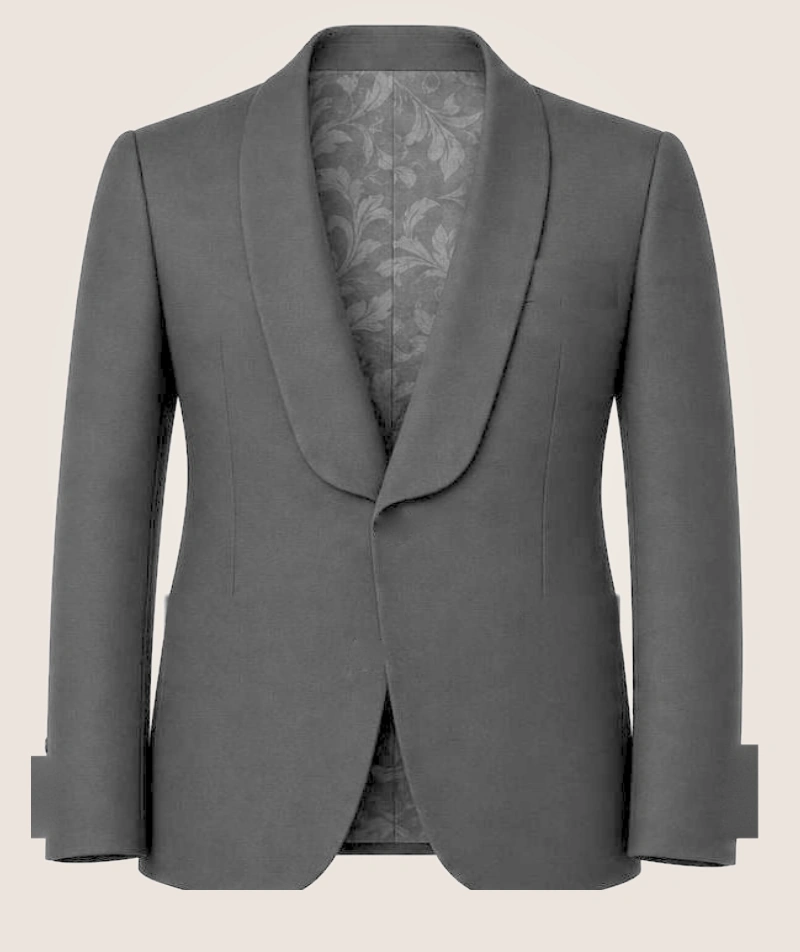
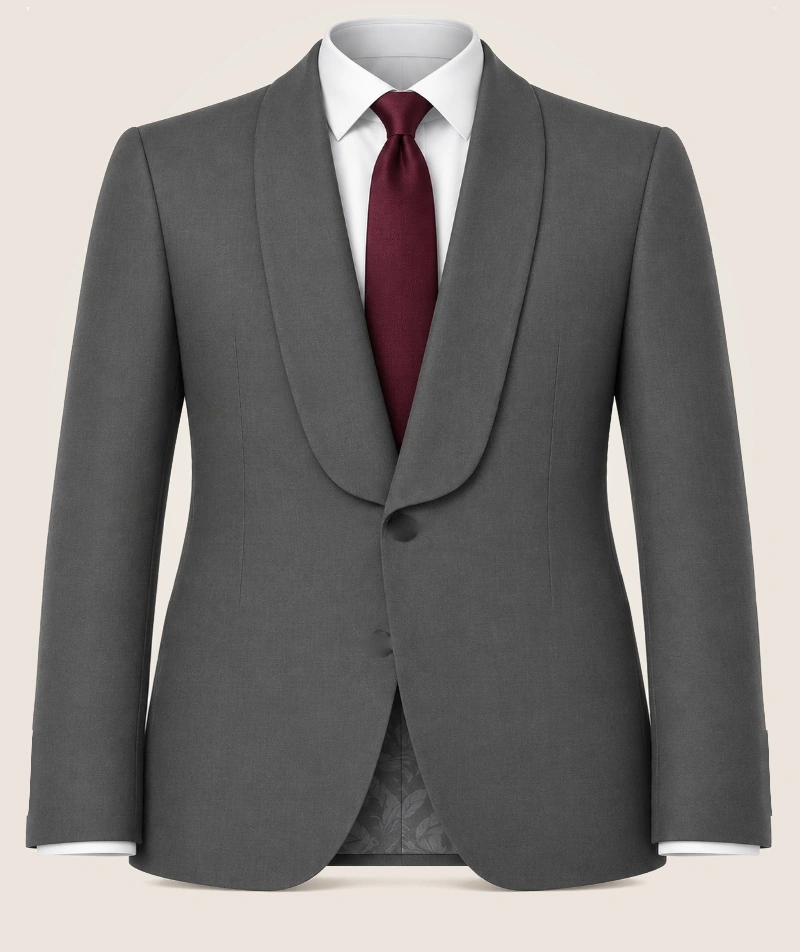
Arc picture: rebuilt from Daniel's new Arc reference (shirt, tie, cuffs, lining)
Claude-Session: https://claude.ai/code/session_01Y2WUq1weRP5XrU8gepbqNJ

diff --git a/jacket-studio.js b/jacket-studio.js
@@ -55,8 +55,8 @@
   };
   // Double breasted fronts use their own photo (peak lapels, the front
   // crossing over; scripts/make_jacket_photo_db.py).
-  const PHOTO_ARC = "./assets/jacket-photo-front-arc.webp?v=2";
-  const SHADE_ARC = "./assets/jacket-photo-shade-front-arc-photo.webp?v=3";
+  const PHOTO_ARC = "./assets/jacket-photo-front-arc.webp?v=3";
+  const SHADE_ARC = "./assets/jacket-photo-shade-front-arc-photo.webp?v=4";
   const PHOTO_DB = "./assets/jacket-photo-front-db.webp?v=1";
   const SHADE_DB = "./assets/jacket-photo-shade-front-db.webp?v=1";
   const SHADE_DB_LAPEL = {
@@ -670,7 +670,7 @@
     const arcFront = !db && v.collar === "Arc Lapel";
     if (arcFront) {
       g.save();
-      const clip = new Path2D("M0,0 H" + VBW + " V" + VBH + " H0 Z M548,120 L550,182 L544,235 L532,287 L511,340 L440,340 L440,120 Z");
+      const clip = new Path2D("M0,0 H" + VBW + " V" + VBH + " H0 Z M546,120 L546,160 L541,200 L537,235 L531,265 L525,295 L518,325 L512,355 L505,385 L440,385 L440,120 Z");
       g.clip(clip, "evenodd");
     }
     if (ck === "patch") patch(g, layer, CX, 268, CW, 92, -2, "roundpatch", 1);

diff --git a/index.html b/index.html
@@ -1360,7 +1360,7 @@
 <!-- Your Jacket peek: a small read-only picture of the jacket beside the
      Jacket questions; tap to see it big (Daniel, 2026-11-19). The old
      clickable "Interactive Jacket" mode is no longer offered. -->
-<script src="./jacket-studio.js?v=20261120arcfix2"></script>
+<script src="./jacket-studio.js?v=20261120arcv2"></script>
 
 </body>
 </html>

diff --git a/scripts/make_jacket_photo_arc.py b/scripts/make_jacket_photo_arc.py
@@ -1,18 +1,21 @@
 """Arc lapel front for the Your Jacket picture (jacket-studio.js).
 
-Daniel (2026-11-19): the Arc must look exactly like the approved Arc photo the
-suit picture generator uses (assets/jacket-lapelref-arc-approved.jpg, a grey
-jacket). Drawing the Arc edge as a line on the notch photo never looked right,
-so the single breasted Arc front is built from that photo itself:
+Daniel (2026-11-20) sent a new Arc reference (assets/jacket-lapelref-arc-v2.jpg:
+grey two button Arc jacket with white shirt, burgundy tie, shirt cuffs and the
+damask lining showing below the buttons). The single breasted Arc front is
+built from that photo itself (drawing the Arc edge as lines never looked
+right):
 
-- the grey jacket (left 600 px of the reference) is warped onto the main
-  photo's layout (800x952 crop: shoulders, collar, top button and sleeve ends
-  line up with jacket-photo-front.webp, so the drawn pockets, buttons and cuffs
-  land in the same places),
-- its own buttons and sleeve buttons are painted out (the page draws them),
+- the photo is warped onto the main photo's layout (800x952: one linear map
+  in y through shoulders / top button / sleeve ends, and per row an x scale
+  that matches the silhouette width, so the drawn pockets, buttons and cuffs
+  land where they do on jacket-photo-front.webp),
+- its own buttons, buttonhole and sleeve buttons are painted out (the page
+  draws them),
 - its luminance becomes the cloth shading (same encoding as
   jacket-photo-shade-front*.webp), and
-- the lining showing in the opening and the backdrop stay in the base photo.
+- the shirt, tie, shirt cuffs and lining stay in the base photo; the backdrop
+  becomes the page glow.
 
 Writes assets/jacket-photo-front-arc.webp and
 assets/jacket-photo-shade-front-arc-photo.webp.
@@ -23,10 +26,11 @@ import os
 
 HERE = os.path.dirname(os.path.abspath(__file__))
 ROOT = os.path.dirname(HERE)
-src = Image.open(os.path.join(ROOT, 'assets', 'jacket-lapelref-arc-approved.jpg')).convert('RGB').crop((0, 0, 600, 800))
+src = Image.open(os.path.join(ROOT, 'assets', 'jacket-lapelref-arc-v2.jpg')).convert('RGB')
 g = np.asarray(src).astype(np.float32)
 GH, GW = g.shape[:2]
 GL = g.mean(2)
+BACKDROP = np.array([247, 239, 231], np.float32)
 
 
 def mask(polys=(), circles=(), rects=(), W=GW, H=GH, ss=4):
@@ -39,10 +43,14 @@ def mask(polys=(), circles=(), rects=(), W=GW, H=GH, ss=4):
 
 
 # ---- paint out the photo's buttons, buttonhole and sleeve buttons ----------
-holes = mask(circles=[(295, 477, 15), (275, 590, 15)],
-             rects=[(306, 469, 327, 483), (563, 670, 590, 752), (0, 680, 24, 752)]) > 0.01
-# Keep the white backdrop out of the fill so the sleeve edges stay cloth.
-cloth_known = (GL < 200) & ~holes
+# Sleeve buttons stick out past the sleeve edge (x 50 left, 1030 right): the
+# part outside becomes backdrop, the part on the sleeve becomes cloth.
+g[1168:1306, 30:50] = BACKDROP
+g[1168:1306, 1031:1050] = BACKDROP
+GL = g.mean(2)
+holes = mask(circles=[(544, 841, 21), (510, 1030, 21)],
+             rects=[(558, 831, 593, 849), (49, 1168, 56, 1306), (1023, 1168, 1031, 1306)]) > 0.01
+cloth_known = (GL < 170) & ~holes
 v = g.copy()
 v[holes] = g[cloth_known].mean(0)
 w = (cloth_known | holes).astype(np.float32)
@@ -54,30 +62,49 @@ for _ in range(1500):
     nv = s / np.maximum(sw, 1e-6)[..., None]
     v[holes] = nv[holes]
 g2 = np.where(holes[..., None], v, g)
-# a touch of the cloth's grain back on the filled spots
 rng = np.random.default_rng(3)
 g2[holes] += rng.normal(0, 2.0, (holes.sum(), 1))
 GL2 = g2.mean(2)
+R, G, B = g2[..., 0], g2[..., 1], g2[..., 2]
 
-# ---- masks: backdrop, lining in the opening, cloth ----------------------
-# The right edge sits on the damask, not on the plain grey facing strip beside
-# it, so the right lapel's cloth covers that strip (Daniel 2026-11-19).
-OPEN_TOP = [(226, 52), (359, 52), (361, 120), (355, 200), (339, 258), (317, 318), (299, 368), (293, 398),
-            (282, 370), (263, 302), (246, 232), (233, 150)]
-OPEN_BOT = [(295, 614), (306, 650), (318, 700), (330, 760), (250, 760), (262, 700), (280, 650)]
-opening = mask(polys=[OPEN_TOP, OPEN_BOT])
-bg = np.clip((GL2 - 222) / 14, 0, 1)
-bg = np.asarray(Image.fromarray((bg * 255).astype(np.uint8)).filter(ImageFilter.GaussianBlur(0.7))).astype(np.float32) / 255
-cloth = np.clip((1 - bg) * (1 - opening), 0, 1)
-jacket = np.clip(1 - bg, 0, 1)  # cloth + lining
+# ---- masks: backdrop (warm cream), shirt (neutral white), tie (red), lining --
+bd = np.clip((R - B - 6) / 6, 0, 1) * np.clip((GL2 - 190) / 20, 0, 1)
+white = np.clip((GL2 - 145) / 35, 0, 1)
+tie = np.clip((R - (G + B) / 2 - 12) / 12, 0, 1)
+# grow the tie a pixel so its dark rim doesn't turn into a cloth halo
+tie = np.asarray(Image.fromarray((tie * 255).astype(np.uint8)).filter(ImageFilter.MaxFilter(3))).astype(np.float32) / 255
+LINING = [(539, 1086), (546, 1120), (561, 1200), (586, 1280), (612, 1350), (626, 1394),
+          (434, 1394), (462, 1350), (482, 1320), (501, 1270), (516, 1200), (531, 1120)]
+lining = mask(polys=[LINING])
+cloth = np.clip((1 - bd) * (1 - white) * (1 - tie) * (1 - lining), 0, 1)
+cloth = np.asarray(Image.fromarray((cloth * 255).astype(np.uint8)).filter(ImageFilter.GaussianBlur(0.6))).astype(np.float32) / 255
+jacket = np.clip(1 - bd, 0, 1)  # cloth + shirt + tie + lining
 
 # ---- warp onto the main photo's layout (800x952) -------------------------
 W, H = 800, 952
-# x: shoulders (85 -> 135, 515 -> 665); y: collar 25 -> 40, shoulders 100 -> 130,
-# top button 477 -> 525, sleeve ends 770 -> 858, hem 795 -> 885.
 yy, xx = np.mgrid[0:H, 0:W].astype(np.float32)
-gx = 85 + (xx - 135) * 430.0 / 530.0
-gy = np.interp(yy, [0, 40, 130, 525, 858, 885, 952], [0 - 40 * 25 / 40 + 25, 25, 100, 477, 770, 795, 795 + 67 * 0.92])
+# y: main shoulders 140 / top button 525 / sleeve ends 852 <-> ref 215 / 838 / 1365.
+gy = 215 + (yy - 140) * 1.616
+
+
+def widths(Lum, thr, rows):
+    out = []
+    for y in rows:
+        xs = np.where(Lum[int(y)] < thr)[0]
+        out.append(xs.max() - xs.min() if len(xs) else 0)
+    return np.array(out, np.float32)
+
+
+main = np.asarray(Image.open(os.path.join(ROOT, 'assets', 'jacket-photo-front.webp')).convert('L')).astype(np.float32)
+rows = np.arange(140, 841, 4, dtype=np.float32)
+wm = widths(main, 190, rows)
+wr = widths(GL, 200, np.clip(215 + (rows - 140) * 1.616, 0, GH - 1))
+scale = wr / np.maximum(wm, 1)
+scale = np.convolve(np.pad(scale, 6, mode='edge'), np.ones(13) / 13, mode='valid')
+sy = np.interp(yy[:, 0], rows, scale)[:, None]  # clamps above / below
+CM, CR = 398.5, 538.5
+gx = CR + (xx - CM) * sy
+print('x scale shoulders %.3f sleeves %.3f' % (scale[0], scale[-1]))
 
 
 def sample(arr):
@@ -101,18 +128,16 @@ Lu = Image.fromarray(np.clip(Lw, 0, 255).astype(np.uint8))
 Ls = np.asarray(Lu.filter(ImageFilter.MedianFilter(3)).filter(ImageFilter.GaussianBlur(0.6))).astype(np.float32)
 Lref = float(np.median(Ls[cl > 0.9]))
 r = (np.maximum(Ls, 1) / Lref) ** GAMMA
-# The photo's lapel edge is a thin near-black line; on the customer's cloth it
-# read as a hard drawn outline (Daniel 2026-11-19). Soften it: blur the
-# shading a touch and pull the darkest values back toward the cloth.
-r = np.asarray(Image.fromarray(np.clip(r * 100, 0, 255).astype(np.uint8)).filter(ImageFilter.GaussianBlur(1.1))).astype(np.float32) / 100
-r = np.where(r < 1, 1 - (1 - r) * 0.62, r)
+# Keep the lapel edges soft so they read as cloth, not a drawn outline.
+r = np.asarray(Image.fromarray(np.clip(r * 100, 0, 255).astype(np.uint8)).filter(ImageFilter.GaussianBlur(0.9))).astype(np.float32) / 100
+r = np.where(r < 1, 1 - (1 - r) * 0.7, r)
 A = np.clip(cl, 0, 1) * 255
 M1 = np.clip(r, 0, 1) * 255; M2 = np.clip(r - 1, 0, 1) * 255
 top = np.dstack([M1, M1, M1, A]); bot = np.dstack([M2, M2, M2, A])
 Image.fromarray(np.concatenate([top, bot], 0).astype(np.uint8), 'RGBA').save(
     os.path.join(ROOT, 'assets', 'jacket-photo-shade-front-arc-photo.webp'), quality=92, method=6)
 
-# ---- base photo: the page glow backdrop, the jacket (its lining shows) ----
+# ---- base photo: the page glow backdrop, then the jacket with shirt/tie/lining
 PAGE = np.array([236, 228, 221], np.float32)
 GLOW = np.array([245, 240, 233], np.float32)
 rr = np.sqrt(((xx - 400) / 430.0) ** 2 + ((yy - 430) / 520.0) ** 2)
